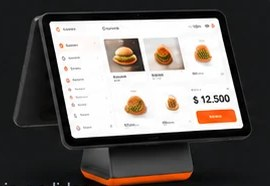
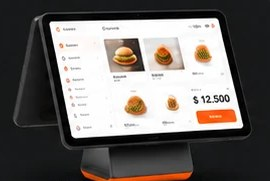
Landing nueva: la sección 3, "Tu forma de trabajar" (los negocios)
Los negocios con lo que Genez les resuelve, de su maqueta en claro y en
oscuro, con los filtros por rubro.

- "Todos" muestra las seis tarjetas de la maqueta y debajo, en una línea,
  los demás negocios: un filtro con más tarjetas que "Todos" no tendría
  sentido. Comercio, Gastronomía y Servicios muestran todos sus negocios
  (10, 6 y 7), cada uno con lo que le resolvemos (docs/landing-nueva.md).
- Los negocios salen de la base (presentacion.negocios); el texto de cada
  uno vive en la página, y un negocio nuevo sin texto muestra lo
  destacado de su rubro.
- Indumentaria y Ecommerce van como "Próximamente" y no se pueden tocar:
  el sistema todavía no tiene variantes ni tienda online.
- Tocar un negocio guarda la elección para el registro, la escribe en la
  dirección (?rubro=…&negocio=…, como los links del alta anterior) y baja
  al registro, que es la sección que falta.
- Fotos: las seis de la maqueta, recortadas sin el texto de al lado; los
  demás negocios usan la foto de Unsplash que ya tenían, más grande.
- Los títulos de las secciones 2 y 3 llevan un espacio antes del salto
  de renglón: en el teléfono los saltos se ocultan y quedaba
  "trabajar.Tu Genez." pegado.
- En una tablet, dos columnas; en el teléfono, tarjetas que crecen con el
  texto para que la flecha no lo pise.

diff --git a/src/landing/LandingNueva.jsx b/src/landing/LandingNueva.jsx
@@ -22,10 +22,16 @@
    pantalla de ejemplo.
    ============================================================ */
 
-import React, { createContext, useContext, useState } from "react";
-import { ArrowRight, Sun, Moon, ShoppingCart, Box, BarChart3, FileText, AlertTriangle, TrendingDown, Truck, ChevronDown } from "lucide-react";
+import React, { createContext, useContext, useEffect, useState } from "react";
+import {
+  ArrowRight, Sun, Moon, ShoppingCart, Box, BarChart3, FileText, AlertTriangle, TrendingDown, Truck, ChevronDown,
+  Store, UtensilsCrossed, Shirt, Scissors, Laptop, Coffee, Beer, Croissant, Apple, Leaf, Wrench, ShowerHead, Candy,
+  ChefHat, ShoppingBag, Sparkles, PersonStanding, Dumbbell, Stethoscope, Flower2,
+} from "lucide-react";
 import { LogoGenez } from "../ui/Logo.jsx";
+import { RUBROS_DE_FABRICA, cargarRubrosPublicos } from "../datos/landing.js";
 import { estaOscuro, fijarTema } from "./tema.js";
+import { FOTOS, Flecha } from "./comun.jsx";
 
 const TemaCtx = createContext(true);
 const useOscuro = () => useContext(TemaCtx);
@@ -47,9 +53,41 @@ const irA = (id) => (e) => {
   if (el) el.scrollIntoView({ behavior: "smooth", block: "start" });
 };
 
+/* `?rubro=` y `?negocio=` en la dirección: los links que ya circulan
+   (por WhatsApp, del alta anterior) llegan al registro con eso elegido. */
+function deLaDireccion(clave) {
+  if (typeof window === "undefined") return null;
+  return new URLSearchParams(window.location.search).get(clave);
+}
+function escribirEnLaDireccion(rubro, negocio) {
+  if (typeof window === "undefined") return;
+  const url = new URL(window.location.href);
+  if (rubro) url.searchParams.set("rubro", rubro); else url.searchParams.delete("rubro");
+  if (negocio) url.searchParams.set("negocio", negocio); else url.searchParams.delete("negocio");
+  window.history.replaceState(null, "", url);
+}
+
 export default function LandingNueva() {
   const [oscuro, setOscuro] = useState(estaOscuro());
   const alternarTema = () => { fijarTema(oscuro ? "claro" : "oscuro"); setOscuro(!oscuro); };
+
+  const [rubros, setRubros] = useState(RUBROS_DE_FABRICA);
+  useEffect(() => {
+    let vigente = true;
+    cargarRubrosPublicos()
+      .then((rs) => { if (vigente && rs.length) setRubros(rs); })
+      .catch(() => { /* quedan los de fábrica, que son los mismos */ });
+    return () => { vigente = false; };
+  }, []);
+
+  /* Lo que el visitante eligió en la página (negocio y plan), para que el
+     registro lo traiga cargado. */
+  const [eleccion, setEleccion] = useState({ rubro: deLaDireccion("rubro"), negocio: deLaDireccion("negocio"), plan: null });
+  const elegirNegocio = (rubro, negocio) => {
+    setEleccion((e) => ({ ...e, rubro, negocio }));
+    escribirEnLaDireccion(rubro, negocio);
+    irA(ANCLAS.registro)();
+  };
 
   return (
     <TemaCtx.Provider value={oscuro}>
@@ -58,6 +96,7 @@ export default function LandingNueva() {
         <main>
           <Inicio />
           <QueHace />
+          <Negocios rubros={rubros} onElegir={elegirNegocio} />
         </main>
       </div>
     </TemaCtx.Provider>
@@ -155,7 +194,7 @@ function QueHace() {
     <section id={ANCLAS.queHace} className="ln-hace">
       <div className="ln-hace-lienzo">
         <div className="ln-rotulo ln-hace-rotulo">No es solo una caja</div>
-        <h2 className="ln-hace-titulo">Vender es una parte.<br /><span className="ln-naranja">Entender tu negocio</span><br />es otra.</h2>
+        <h2 className="ln-hace-titulo">Vender es una parte.{" "}<br /><span className="ln-naranja">Entender tu negocio</span>{" "}<br />es otra.</h2>
         <p className="ln-hace-parrafo">Genez conecta la operación con la rentabilidad y la información que necesitás para decidir.</p>
 
         <ol className="ln-hace-pasos">
@@ -220,5 +259,143 @@ function Alertas() {
         <li><span className="ln-alerta-icono ln-alerta-azul"><Truck /></span>3 pagos de proveedores pendientes</li>
       </ul>
     </div>
+  );
+}
+
+/* ------------------------------------------------------------
+   3 · Tu forma de trabajar (los negocios)
+   ------------------------------------------------------------
+   "Todos" muestra las seis tarjetas de la maqueta y, debajo, el resto de
+   los negocios en una línea: un filtro que muestra más que "Todos" no
+   tendría sentido. Cada rubro muestra todos sus negocios con lo que les
+   resolvemos (docs/landing-nueva.md). Indumentaria y Ecommerce van como
+   "Próximamente": el sistema todavía no tiene variantes ni tienda online.
+
+   Los negocios salen de la base (\`presentacion.negocios\`); lo que les
+   resolvemos es una decisión de la página y vive acá. Un negocio nuevo sin
+   texto muestra lo destacado de su rubro. */
+const SOLUCIONES = {
+  "Kiosco": "Venta rápida · caja y cierres · stock · fiado",
+  "Almacén": "Ventas · stock · compras · fiado",
+  "Minimercado": "Cobro con lector · stock y vencimientos · remitos",
+  "Dietética": "Vencimientos · lista del proveedor · margen",
+  "Verdulería": "Precios del día · caja · compras",
+  "Panadería": "Recetas · costo por receta · pedidos",
+  "Ferretería": "Catálogo grande · precio sugerido · presupuestos",
+  "Casa de sanitarios": "Presupuestos · cuenta corriente · factura A y B",
+  "Bar": "Mesas · comandas · promociones · cierre de caja",
+  "Café": "Mostrador rápido · carta QR · comandas",
+  "Restaurante": "Salón · comandas · cocina · delivery",
+  "Cervecería": "Mesas · comandas a la barra · promociones",
+  "Rotisería": "Pedidos y delivery · recetas · cobro rápido",
+  "Take away": "Centro de pedidos · canales · cobro rápido",
+  "Estética": "Turnos · recordatorios · comisiones",
+  "Peluquería": "Turnos · recordatorios · comisiones · app del cliente",
+  "Barbería": "Turnos · recordatorios · comisiones",
+  "Pilates": "Clases con cupo · abonos · asistencia",
+  "Gimnasio": "Abonos · asistencia · reservas desde el celular",
+  "Consultorio": "Turnos por profesional · recordatorios · factura",
+  "Spa": "Turnos por sala · packs · recordatorios",
+};
+const ICONO_NEGOCIO = {
+  "Kiosco": Candy, "Almacén": ShoppingCart, "Minimercado": Store, "Dietética": Leaf, "Verdulería": Apple,
+  "Panadería": Croissant, "Ferretería": Wrench, "Casa de sanitarios": ShowerHead,
+  "Bar": Beer, "Café": Coffee, "Restaurante": UtensilsCrossed, "Cervecería": Beer, "Rotisería": ChefHat, "Take away": ShoppingBag,
+  "Estética": Sparkles, "Peluquería": Scissors, "Barbería": Scissors, "Pilates": PersonStanding, "Gimnasio": Dumbbell,
+  "Consultorio": Stethoscope, "Spa": Flower2,
+};
+/* Las seis fotos de la maqueta. Los demás negocios usan la foto que ya
+   tenían en la landing anterior (Unsplash). */
+const FOTO_MAQUETA = { "Almacén": "almacen", "Minimercado": "minimercado", "Restaurante": "restaurante", "Indumentaria": "indumentaria", "Servicios": "servicios", "Ecommerce": "ecommerce" };
+function fotoNegocio(nombre, tema) {
+  if (FOTO_MAQUETA[nombre]) return `/landing/nueva/negocio-${FOTO_MAQUETA[nombre]}-${tema}.jpg`;
+  if (FOTOS[nombre]) return `https://images.unsplash.com/${FOTOS[nombre]}?auto=format&fit=crop&w=560&h=420&q=70`;
+  return null;
+}
+const PROXIMAMENTE = [
+  { nombre: "Indumentaria", texto: "Variantes · talles · stock · ventas", icono: Shirt, proximamente: true },
+  { nombre: "Ecommerce", texto: "Tienda online · stock · envíos", icono: Laptop, proximamente: true },
+];
+const NOMBRE_FILTRO = { minimercado: "Comercio", gastronomia: "Gastronomía", servicios: "Servicios" };
+
+function Negocios({ rubros, onElegir }) {
+  const oscuro = useOscuro();
+  const tema = oscuro ? "oscuro" : "claro";
+  const [filtro, setFiltro] = useState("todos");
+
+  const negociosDe = (r) => ((r.presentacion && r.presentacion.negocios) || []).map((n) => ({
+    nombre: n,
+    rubro: r.clave,
+    texto: SOLUCIONES[n] || ((r.presentacion && r.presentacion.destacados) || []).slice(0, 3).join(" · "),
+    icono: ICONO_NEGOCIO[n] || Store,
+  }));
+  const todos = rubros.flatMap(negociosDe);
+  const busca = (n) => todos.find((x) => x.nombre === n);
+  const servicios = rubros.find((r) => r.clave === "servicios");
+
+  const destacados = [
+    busca("Almacén"), busca("Minimercado"), busca("Restaurante"), PROXIMAMENTE[0],
+    servicios && { nombre: "Servicios", rubro: "servicios", negocioElegido: null, texto: "Turnos · clientes · historial · pagos", icono: Scissors },
+    PROXIMAMENTE[1],
+  ].filter(Boolean);
+  const nombresDestacados = new Set(destacados.map((d) => d.nombre));
+  const resto = todos.filter((n) => !nombresDestacados.has(n.nombre));
+
+  const rubroFiltrado = rubros.find((r) => r.clave === filtro);
+  const tarjetas = filtro === "todos" ? destacados
+    : [...negociosDe(rubroFiltrado), ...(filtro === "minimercado" ? PROXIMAMENTE : [])];
+
+  const elegir = (n) => { if (!n.proximamente) onElegir(n.rubro, n.negocioElegido === null ? null : n.nombre); };
+
+  return (
+    <section id={ANCLAS.negocio} className="ln-negocios">
+      <div className="ln-negocios-lienzo">
+        <div className="ln-rotulo ln-negocios-rotulo">Se adapta a tu negocio</div>
+        <h2 className="ln-negocios-titulo">Tu forma de trabajar.{" "}<br /><span className="ln-naranja">Tu Genez.</span></h2>
+        <p className="ln-negocios-parrafo">Un mismo motor, configurado para cada realidad.<br className="ln-solo-ancho" /> Elegí tu rubro y descubrí cómo Genez se adapta<br className="ln-solo-ancho" /> a tu negocio.</p>
+        <div className="ln-negocios-nota manuscrita" aria-hidden="true">
+          Mismo sistema,<br />distintas realidades.
+          <Flecha className="ln-negocios-flecha" />
+        </div>
+
+        <div className="ln-filtros" role="tablist" aria-label="Rubros">
+          {[["todos", "Todos"], ...rubros.filter((r) => NOMBRE_FILTRO[r.clave]).map((r) => [r.clave, NOMBRE_FILTRO[r.clave]])].map(([k, n]) => (
+            <button key={k} type="button" role="tab" aria-selected={filtro === k} onClick={() => setFiltro(k)}
+              className={`ln-filtro ${filtro === k ? "ln-filtro-activo" : ""}`}>{n}</button>
+          ))}
+        </div>
+
+        <ul className="ln-negocios-grilla">
+          {tarjetas.map((n) => {
+            const I = n.icono;
+            const foto = fotoNegocio(n.nombre, tema);
+            return (
+              <li key={n.nombre}>
+                <button type="button" onClick={() => elegir(n)} disabled={n.proximamente}
+                  className={`ln-negocio ${n.proximamente ? "ln-negocio-pronto" : ""}`}
+                  aria-label={n.proximamente ? `${n.nombre}, próximamente` : `${n.nombre}: armar mi sistema`}>
+                  {foto && <img src={foto} alt="" aria-hidden="true" loading="lazy" className="ln-negocio-foto" />}
+                  <span className="ln-negocio-icono"><I strokeWidth={1.75} /></span>
+                  <span className="ln-negocio-nombre">{n.nombre}</span>
+                  <span className="ln-negocio-texto">{n.texto}</span>
+                  {n.proximamente
+                    ? <span className="ln-negocio-pronto-sello">Próximamente</span>
+                    : <span className="ln-negocio-ir"><ArrowRight strokeWidth={2} /></span>}
+                </button>
+              </li>
+            );
+          })}
+        </ul>
+
+        {filtro === "todos" && resto.length > 0 && (
+          <div className="ln-negocios-resto">
+            <span>También para</span>
+            {resto.map((n) => (
+              <button key={n.nombre} type="button" onClick={() => elegir(n)} className="ln-negocios-chip">{n.nombre}</button>
+            ))}
+          </div>
+        )}
+      </div>
+    </section>
   );
 }

diff --git a/src/landing/landing-nueva.css b/src/landing/landing-nueva.css
@@ -287,3 +287,127 @@
   .ln-paso-ganar .ln-paso-flecha { right: calc(-42 * var(--u)); }
   .ln-paso-flecha svg { width: calc(17 * var(--u)); height: calc(17 * var(--u)); }
 }
+
+/* ------------------------------------------------------------
+   3 · Tu forma de trabajar (maqueta: 1966 × 800)
+   ------------------------------------------------------------
+   La cabecera de la sección va a escala de la maqueta; la grilla crece
+   con la cantidad de negocios del filtro, así que va en flujo. */
+.ln {
+  --ln-filtro-activo-fondo: 120 40 10 / 0.55;
+  --ln-filtro-activo-borde: 253 82 4 / 0.55;
+  --ln-filtro-activo-texto: 255 255 255;
+}
+.ln-claro {
+  --ln-filtro-activo-fondo: 18 17 16;
+  --ln-filtro-activo-borde: 18 17 16;
+  --ln-filtro-activo-texto: 255 255 255;
+}
+
+.ln-negocios {
+  --u: min(calc(var(--ln-escala) * 1px), calc(var(--ln-escala) * 100vw / 1966));
+  padding: 48px 20px 40px;
+}
+.ln-negocios-titulo { margin-top: 12px; font-size: 40px; font-weight: 800; line-height: 0.98; letter-spacing: -0.05em; }
+.ln-negocios-parrafo { margin-top: 14px; font-size: 16px; line-height: 1.45; color: rgb(var(--ln-suave)); }
+.ln-negocios-nota { display: none; }
+
+.ln-filtros { margin-top: 22px; display: flex; gap: 8px; overflow-x: auto; scrollbar-width: none; }
+.ln-filtros::-webkit-scrollbar { display: none; }
+.ln-filtro {
+  flex-shrink: 0; padding: 9px 16px; border-radius: 9999px; font-size: 14px; font-weight: 600;
+  background: rgb(var(--ln-linea-fondo)); border: 1px solid rgb(var(--ln-linea-borde)); color: rgb(var(--ln-suave));
+}
+.ln-filtro:hover { color: rgb(var(--ln-texto)); }
+.ln-filtro-activo, .ln-filtro-activo:hover {
+  background: rgb(var(--ln-filtro-activo-fondo)); border-color: rgb(var(--ln-filtro-activo-borde)); color: rgb(var(--ln-filtro-activo-texto));
+}
+
+.ln-negocios-grilla { margin-top: 18px; display: grid; gap: 12px; }
+.ln-negocio {
+  position: relative; overflow: hidden; width: 100%; height: 150px; text-align: left;
+  display: flex; flex-direction: column; align-items: flex-start;
+  padding: 16px 18px; border-radius: 18px;
+  background: rgb(var(--ln-tarjeta)); border: 1px solid rgb(var(--ln-tarjeta-borde));
+  box-shadow: 0 10px 30px rgb(0 0 0 / 0.06);
+  transition: border-color 0.15s, transform 0.15s;
+}
+.ln-negocio:not(:disabled):hover { border-color: rgb(var(--ln-naranja) / 0.45); }
+.ln-negocio-foto {
+  position: absolute; right: 0; top: 0; height: 100%; width: 48%; object-fit: cover;
+  -webkit-mask-image: linear-gradient(to right, transparent 0, rgb(0 0 0 / 0.5) 35%, #000 75%);
+  mask-image: linear-gradient(to right, transparent 0, rgb(0 0 0 / 0.5) 35%, #000 75%);
+}
+.ln-negocio-icono, .ln-negocio-nombre, .ln-negocio-texto, .ln-negocio-ir, .ln-negocio-pronto-sello { position: relative; }
+.ln-negocio-icono {
+  display: flex; align-items: center; justify-content: center;
+  width: 44px; height: 44px; border-radius: 11px;
+  background: rgb(var(--ln-icono-fondo)); color: rgb(var(--ln-naranja));
+}
+.ln-negocio-icono svg { width: 22px; height: 22px; }
+.ln-negocio-nombre { margin-top: 12px; font-size: 19px; font-weight: 800; letter-spacing: -0.02em; }
+.ln-negocio-texto { margin-top: 4px; font-size: 13.5px; color: rgb(var(--ln-suave)); max-width: 58%; }
+.ln-negocio-ir {
+  margin-top: auto; display: flex; align-items: center; justify-content: center;
+  width: 30px; height: 30px; border-radius: 9999px;
+  border: 1px solid rgb(var(--ln-linea-borde)); background: rgb(var(--ln-linea-fondo));
+}
+.ln-negocio-ir svg { width: 15px; height: 15px; }
+.ln-negocio-pronto { cursor: default; }
+.ln-negocio-pronto .ln-negocio-foto { opacity: 0.55; }
+.ln-negocio-pronto-sello {
+  margin-top: auto; padding: 3px 9px; border-radius: 9999px; font-size: 11.5px; font-weight: 700;
+  color: rgb(var(--ln-naranja)); background: rgb(var(--ln-icono-fondo));
+}
+
+.ln-negocios-resto { margin-top: 16px; display: flex; flex-wrap: wrap; align-items: center; gap: 8px; font-size: 13px; color: rgb(var(--ln-suave)); }
+.ln-negocios-resto > span { margin-right: 4px; font-weight: 600; }
+.ln-negocios-chip {
+  padding: 5px 12px; border-radius: 9999px; font-size: 13px; font-weight: 600;
+  background: rgb(var(--ln-linea-fondo)); border: 1px solid rgb(var(--ln-linea-borde)); color: rgb(var(--ln-texto));
+}
+.ln-negocios-chip:hover { border-color: rgb(var(--ln-naranja) / 0.5); color: rgb(var(--ln-naranja)); }
+
+@media (max-width: 1023px) {
+  .ln-negocios-titulo br { display: none; }
+  .ln-negocio { height: auto; min-height: 150px; }
+  .ln-negocio-ir, .ln-negocio-pronto-sello { margin-top: 12px; }
+}
+/* En una tablet, dos columnas. */
+@media (min-width: 640px) and (max-width: 1023px) {
+  .ln-negocios-grilla { grid-template-columns: 1fr 1fr; }
+}
+
+@media (min-width: 1024px) {
+  .ln-negocios { padding: 0 0 calc(40 * var(--u)); }
+  .ln-negocios-lienzo { position: relative; width: calc(1966 * var(--u)); margin: 0 auto; padding: calc(347 * var(--u)) 0 0 calc(141 * var(--u)); }
+  .ln-negocios-rotulo { position: absolute; left: calc(140 * var(--u)); top: calc(17 * var(--u)); font-size: calc(16 * var(--u)); }
+  .ln-negocios-titulo {
+    position: absolute; left: calc(140 * var(--u)); top: calc(54 * var(--u)); margin: 0;
+    font-size: calc(91 * var(--u)); line-height: 0.95; letter-spacing: -0.055em; white-space: nowrap;
+  }
+  .ln-negocios-parrafo { position: absolute; left: calc(1245 * var(--u)); top: calc(130 * var(--u)); margin: 0; font-size: calc(19 * var(--u)); line-height: 1.45; }
+  .ln-negocios-nota {
+    display: block; position: absolute; left: calc(1747 * var(--u)); top: calc(222 * var(--u));
+    font-size: calc(23 * var(--u)); line-height: 1.05; color: rgb(var(--ln-naranja));
+    transform: rotate(-12deg); transform-origin: left top;
+  }
+  .ln-negocios-flecha {
+    position: absolute; left: calc(-70 * var(--u)); top: calc(48 * var(--u));
+    width: calc(56 * var(--u)); transform: rotate(118deg) scaleY(-1); color: rgb(var(--ln-naranja));
+  }
+  .ln-filtros { position: absolute; left: calc(141 * var(--u)); top: calc(268 * var(--u)); margin: 0; gap: calc(14 * var(--u)); overflow: visible; }
+  .ln-filtro { height: calc(50 * var(--u)); padding: 0 calc(25 * var(--u)); font-size: calc(17.5 * var(--u)); font-weight: 500; }
+  .ln-negocios-grilla { margin: 0; grid-template-columns: repeat(3, calc(545 * var(--u))); column-gap: calc(25 * var(--u)); row-gap: calc(20 * var(--u)); }
+  .ln-negocio { height: calc(208 * var(--u)); padding: calc(23 * var(--u)) calc(35 * var(--u)); border-radius: calc(22 * var(--u)); }
+  .ln-negocio-foto { width: calc(270 * var(--u)); }
+  .ln-negocio-icono { width: calc(60 * var(--u)); height: calc(60 * var(--u)); border-radius: calc(13 * var(--u)); }
+  .ln-negocio-icono svg { width: calc(30 * var(--u)); height: calc(30 * var(--u)); }
+  .ln-negocio-nombre { margin-top: calc(14 * var(--u)); font-size: calc(25 * var(--u)); }
+  .ln-negocio-texto { margin-top: calc(4 * var(--u)); font-size: calc(16.5 * var(--u)); max-width: calc(300 * var(--u)); }
+  .ln-negocio-ir { width: calc(38 * var(--u)); height: calc(38 * var(--u)); }
+  .ln-negocio-ir svg { width: calc(18 * var(--u)); height: calc(18 * var(--u)); }
+  .ln-negocio-pronto-sello { padding: calc(4 * var(--u)) calc(12 * var(--u)); font-size: calc(14 * var(--u)); }
+  .ln-negocios-resto { margin-top: calc(24 * var(--u)); gap: calc(10 * var(--u)); font-size: calc(16 * var(--u)); max-width: calc(1685 * var(--u)); }
+  .ln-negocios-chip { padding: calc(6 * var(--u)) calc(14 * var(--u)); font-size: calc(15.5 * var(--u)); }
+}
